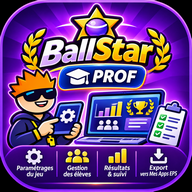
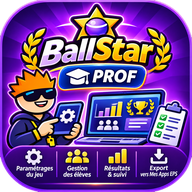
Icônes d'installation détourées (fond transparent) + maskable, manifeste corrigé
Claude-Session: https://claude.ai/code/session_01DWMzvDjuQqdn6i5FnQMur8

diff --git a/sw.js b/sw.js
@@ -1,6 +1,6 @@
 /* Service worker Ball Star Prof – tout est mis en cache : l'app fonctionne sans réseau, et prend la dernière version dès qu'il y a du réseau.
    Pour publier une mise à jour : changer VERSION ci-dessous (et APP_VERSION dans version.js). */
-const VERSION='1.8.5';
+const VERSION='1.8.6';
 const CACHE='ballstar-prof-'+VERSION;
 const CORE=['fonts/fonts.css','fonts/lilita-one-latin-400-normal.woff2','fonts/nunito-latin-600-normal.woff2','fonts/nunito-latin-800-normal.woff2','fonts/nunito-latin-900-normal.woff2','footer.js','nouveautes.js','nouveautes.json',"./","index.html","ballstar-prof.js","ballstar.css","prof.css","bs-art.js","bs-rules.js","bs-install.js","bs-xlsx.js","eps-core.js","version.js","manifest.webmanifest","icons/icon-192.png","icons/logo-BallStar-Prof.png","icons/icon-512.png","icons/icon-maskable-512.png","icons/apple-touch-icon.png"];
 self.addEventListener('install',e=>{e.waitUntil(caches.open(CACHE).then(c=>c.addAll(CORE)).then(()=>self.skipWaiting()))});

diff --git a/index.html b/index.html
@@ -7,7 +7,7 @@
 <meta name="theme-color" content="#12062b">
 <link rel="manifest" href="manifest.webmanifest">
 <link rel="icon" href="icons/icon-192.png">
-<link rel="apple-touch-icon" href="icons/apple-touch-icon.png">
+<link rel="apple-touch-icon" href="icons/icon-maskable-192.png">
 <meta name="apple-mobile-web-app-capable" content="yes">
 <meta name="apple-mobile-web-app-status-bar-style" content="black-translucent">
 <link rel="stylesheet" href="fonts/fonts.css">

diff --git a/version.js b/version.js
@@ -1,1 +1,1 @@
-const APP_VERSION="1.8.5"; // ← modifier ici ET dans sw.js (VERSION) pour publier une mise à jour
+const APP_VERSION="1.8.6"; // ← modifier ici ET dans sw.js (VERSION) pour publier une mise à jour
